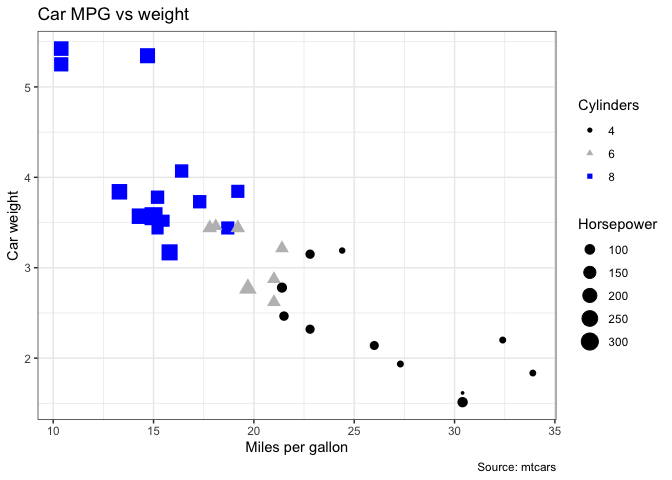
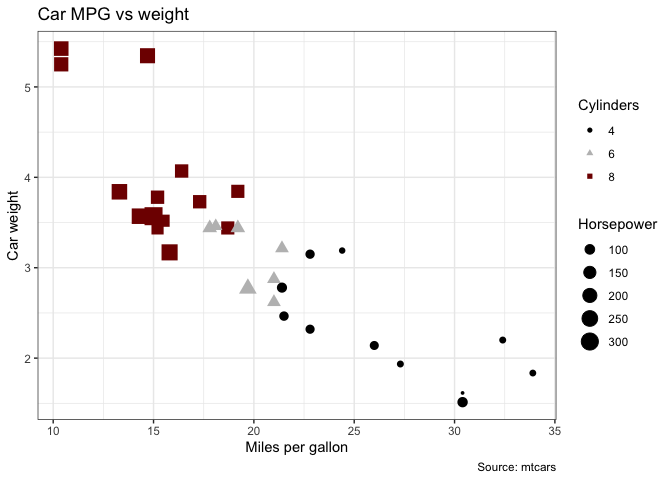
big update

diff --git a/a0_practice.html b/a0_practice.html
@@ -382,7 +382,6 @@ on using R Markdown see <a href="http://rmarkdown.rstudio.com" class="uri">http:
 generated that includes both content as well as the output of any
 embedded R code chunks within the document. You can embed an R code
 chunk like this:</p>
-<pre class="r"><code>summary(cars)</code></pre>
 <pre><code>##      speed           dist       
 ##  Min.   : 4.0   Min.   :  2.00  
 ##  1st Qu.:12.0   1st Qu.: 26.00  

diff --git a/a0_practice.md b/a0_practice.md
@@ -8,8 +8,6 @@ When you click the **Knit** button a document will be generated that
 includes both content as well as the output of any embedded R code
 chunks within the document. You can embed an R code chunk like this:
 
-    summary(cars)
-
     ##      speed           dist       
     ##  Min.   : 4.0   Min.   :  2.00  
     ##  1st Qu.:12.0   1st Qu.: 26.00  
@@ -31,19 +29,6 @@ prevent printing of the R code that generated the plot.
 
 Here, we’re going to use tidyverse (which has ggplot2)
 
-    library(tidyverse)
-
-    ## ── Attaching core tidyverse packages ──────────────────────── tidyverse 2.0.0 ──
-    ## ✔ dplyr     1.1.4     ✔ readr     2.1.5
-    ## ✔ forcats   1.0.0     ✔ stringr   1.5.1
-    ## ✔ ggplot2   3.5.2     ✔ tibble    3.2.1
-    ## ✔ lubridate 1.9.4     ✔ tidyr     1.3.1
-    ## ✔ purrr     1.0.4     
-    ## ── Conflicts ────────────────────────────────────────── tidyverse_conflicts() ──
-    ## ✖ dplyr::filter() masks stats::filter()
-    ## ✖ dplyr::lag()    masks stats::lag()
-    ## ℹ Use the conflicted package (<http://conflicted.r-lib.org/>) to force all conflicts to become errors
-
     ggplot(mtcars)+ 
            geom_point(aes(x = mpg, y = wt, 
                           color = factor(cyl),
@@ -51,7 +36,7 @@ Here, we’re going to use tidyverse (which has ggplot2)
                           size = hp))+ 
                           #label = rownames(mtcars), check_overlap = TRUE) +
       theme_bw() +
-      scale_color_manual(values = c("black", "gray", "blue") ) +
+      scale_color_manual(values = c("black", "gray", "#800000") ) +
       labs(title = "Car MPG vs weight", 
            x = 'Miles per gallon',
            y = 'Car weight',
